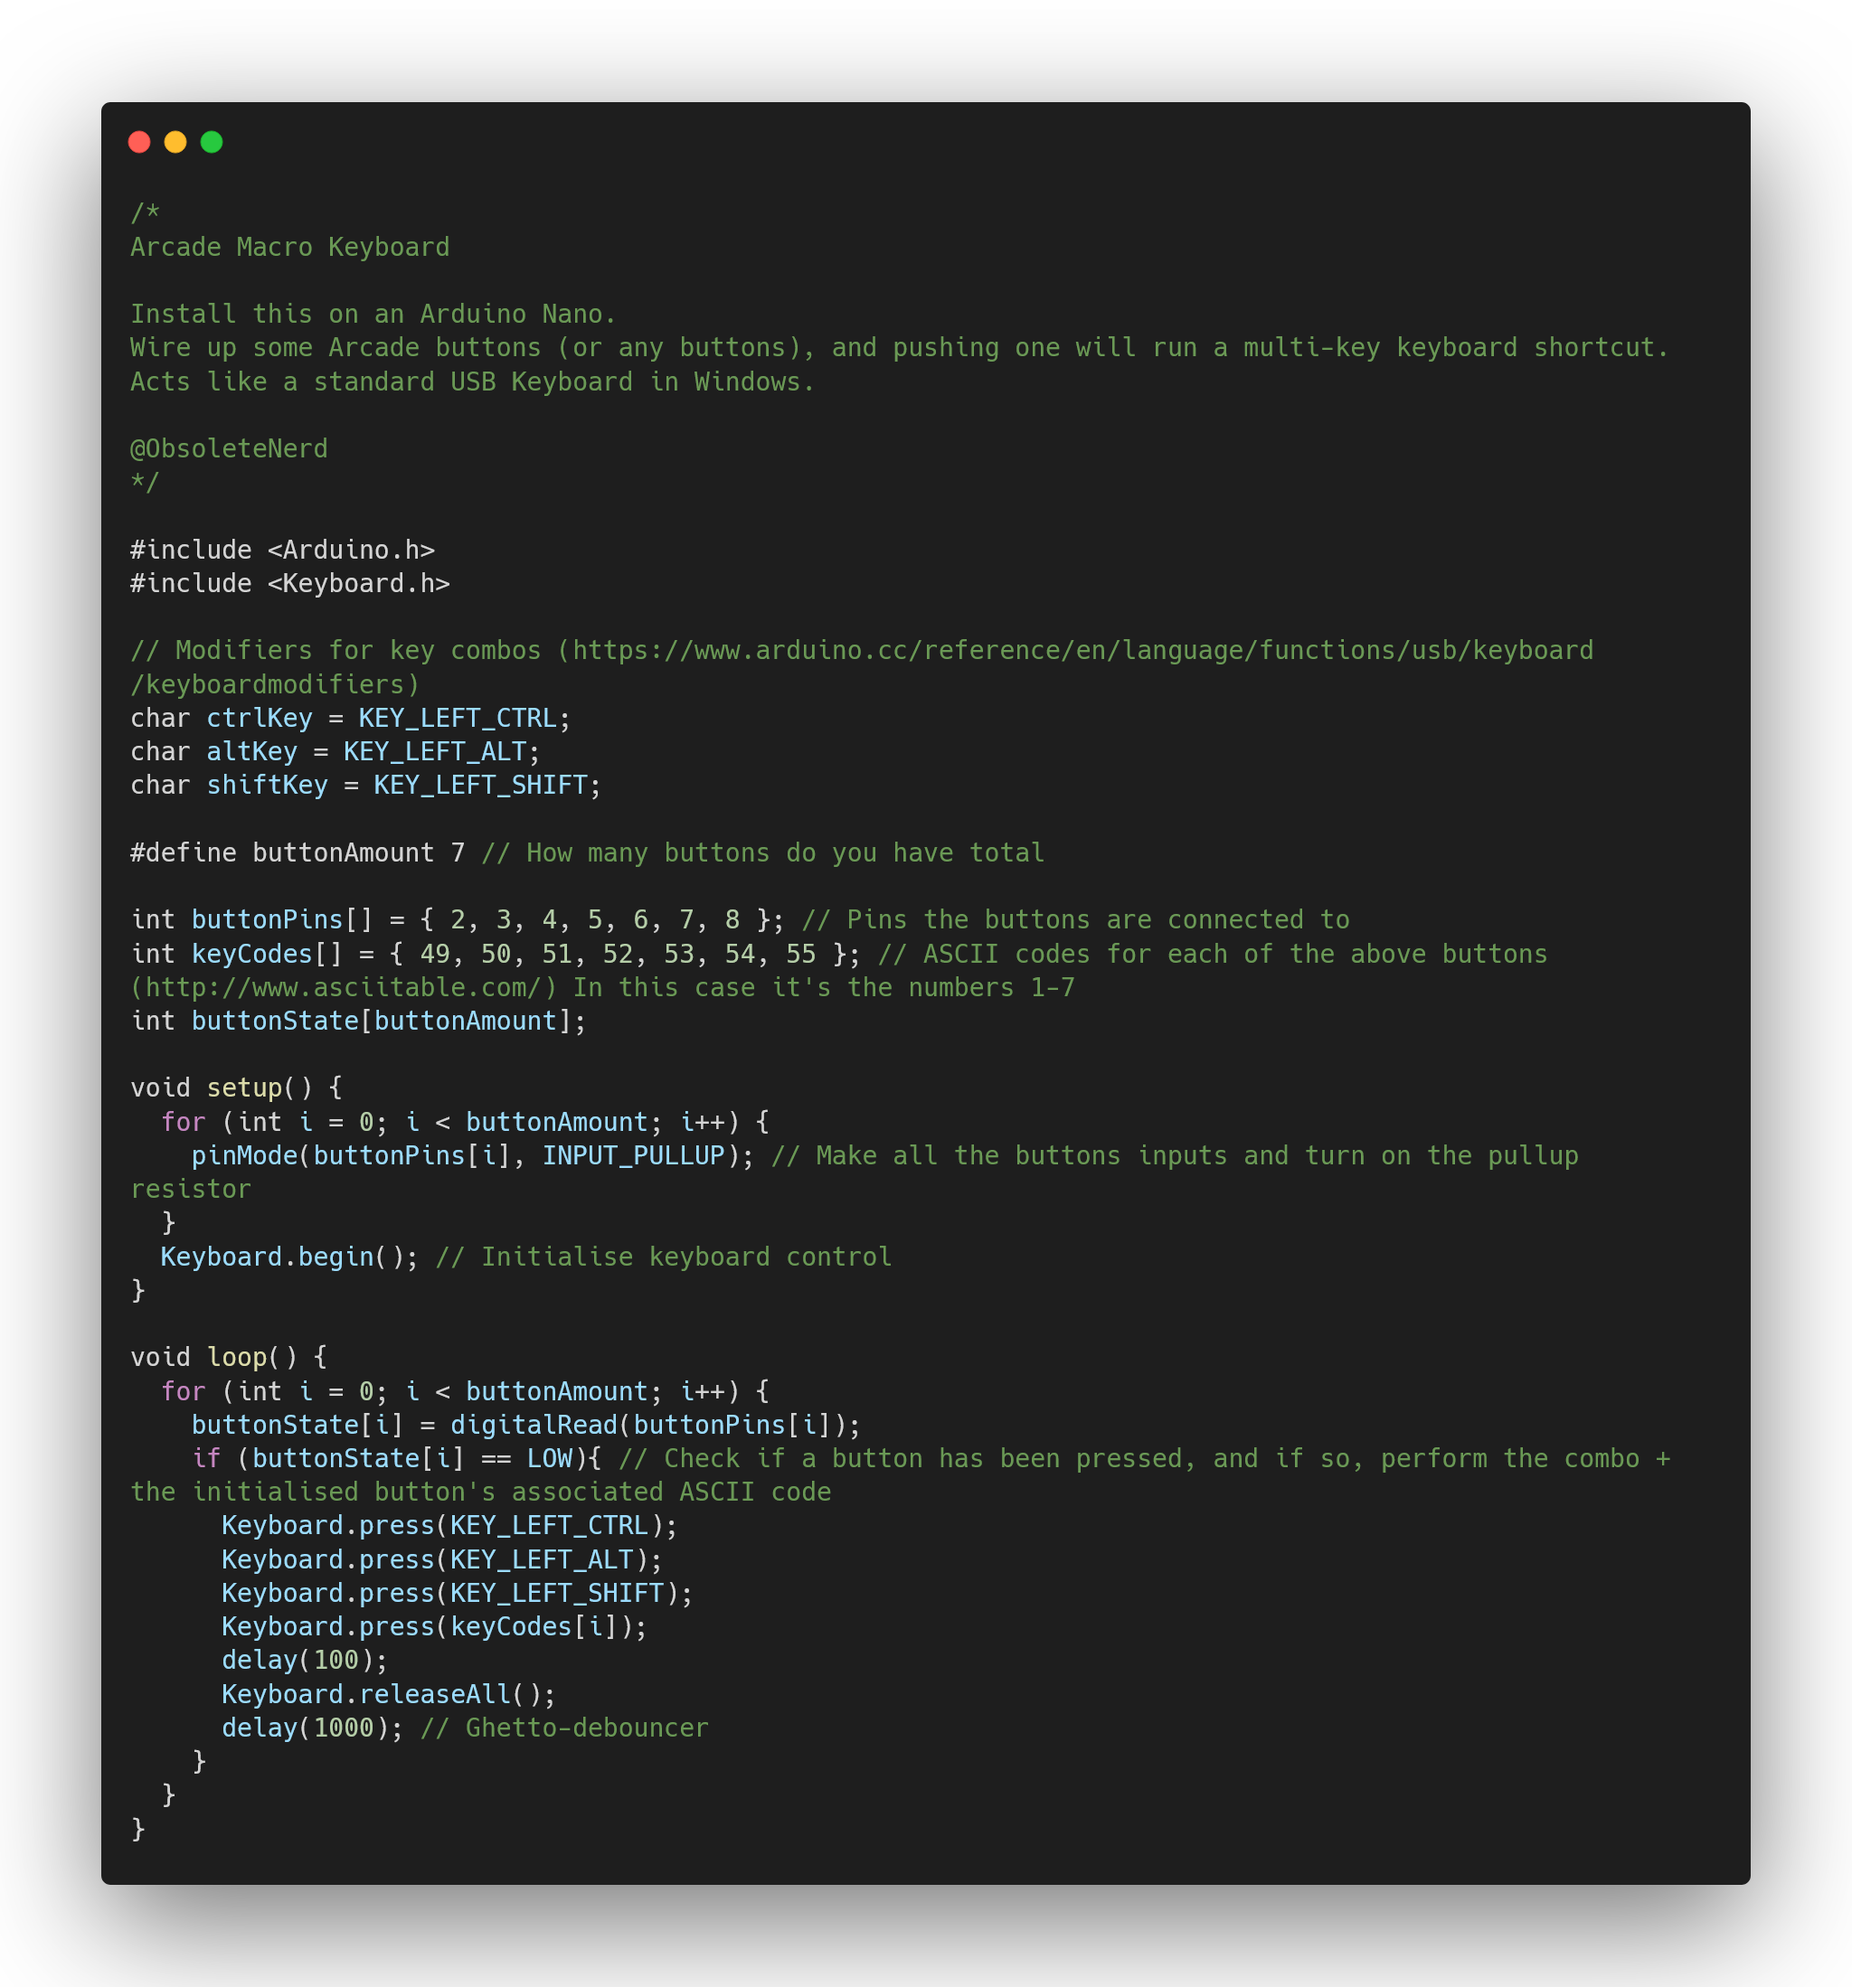
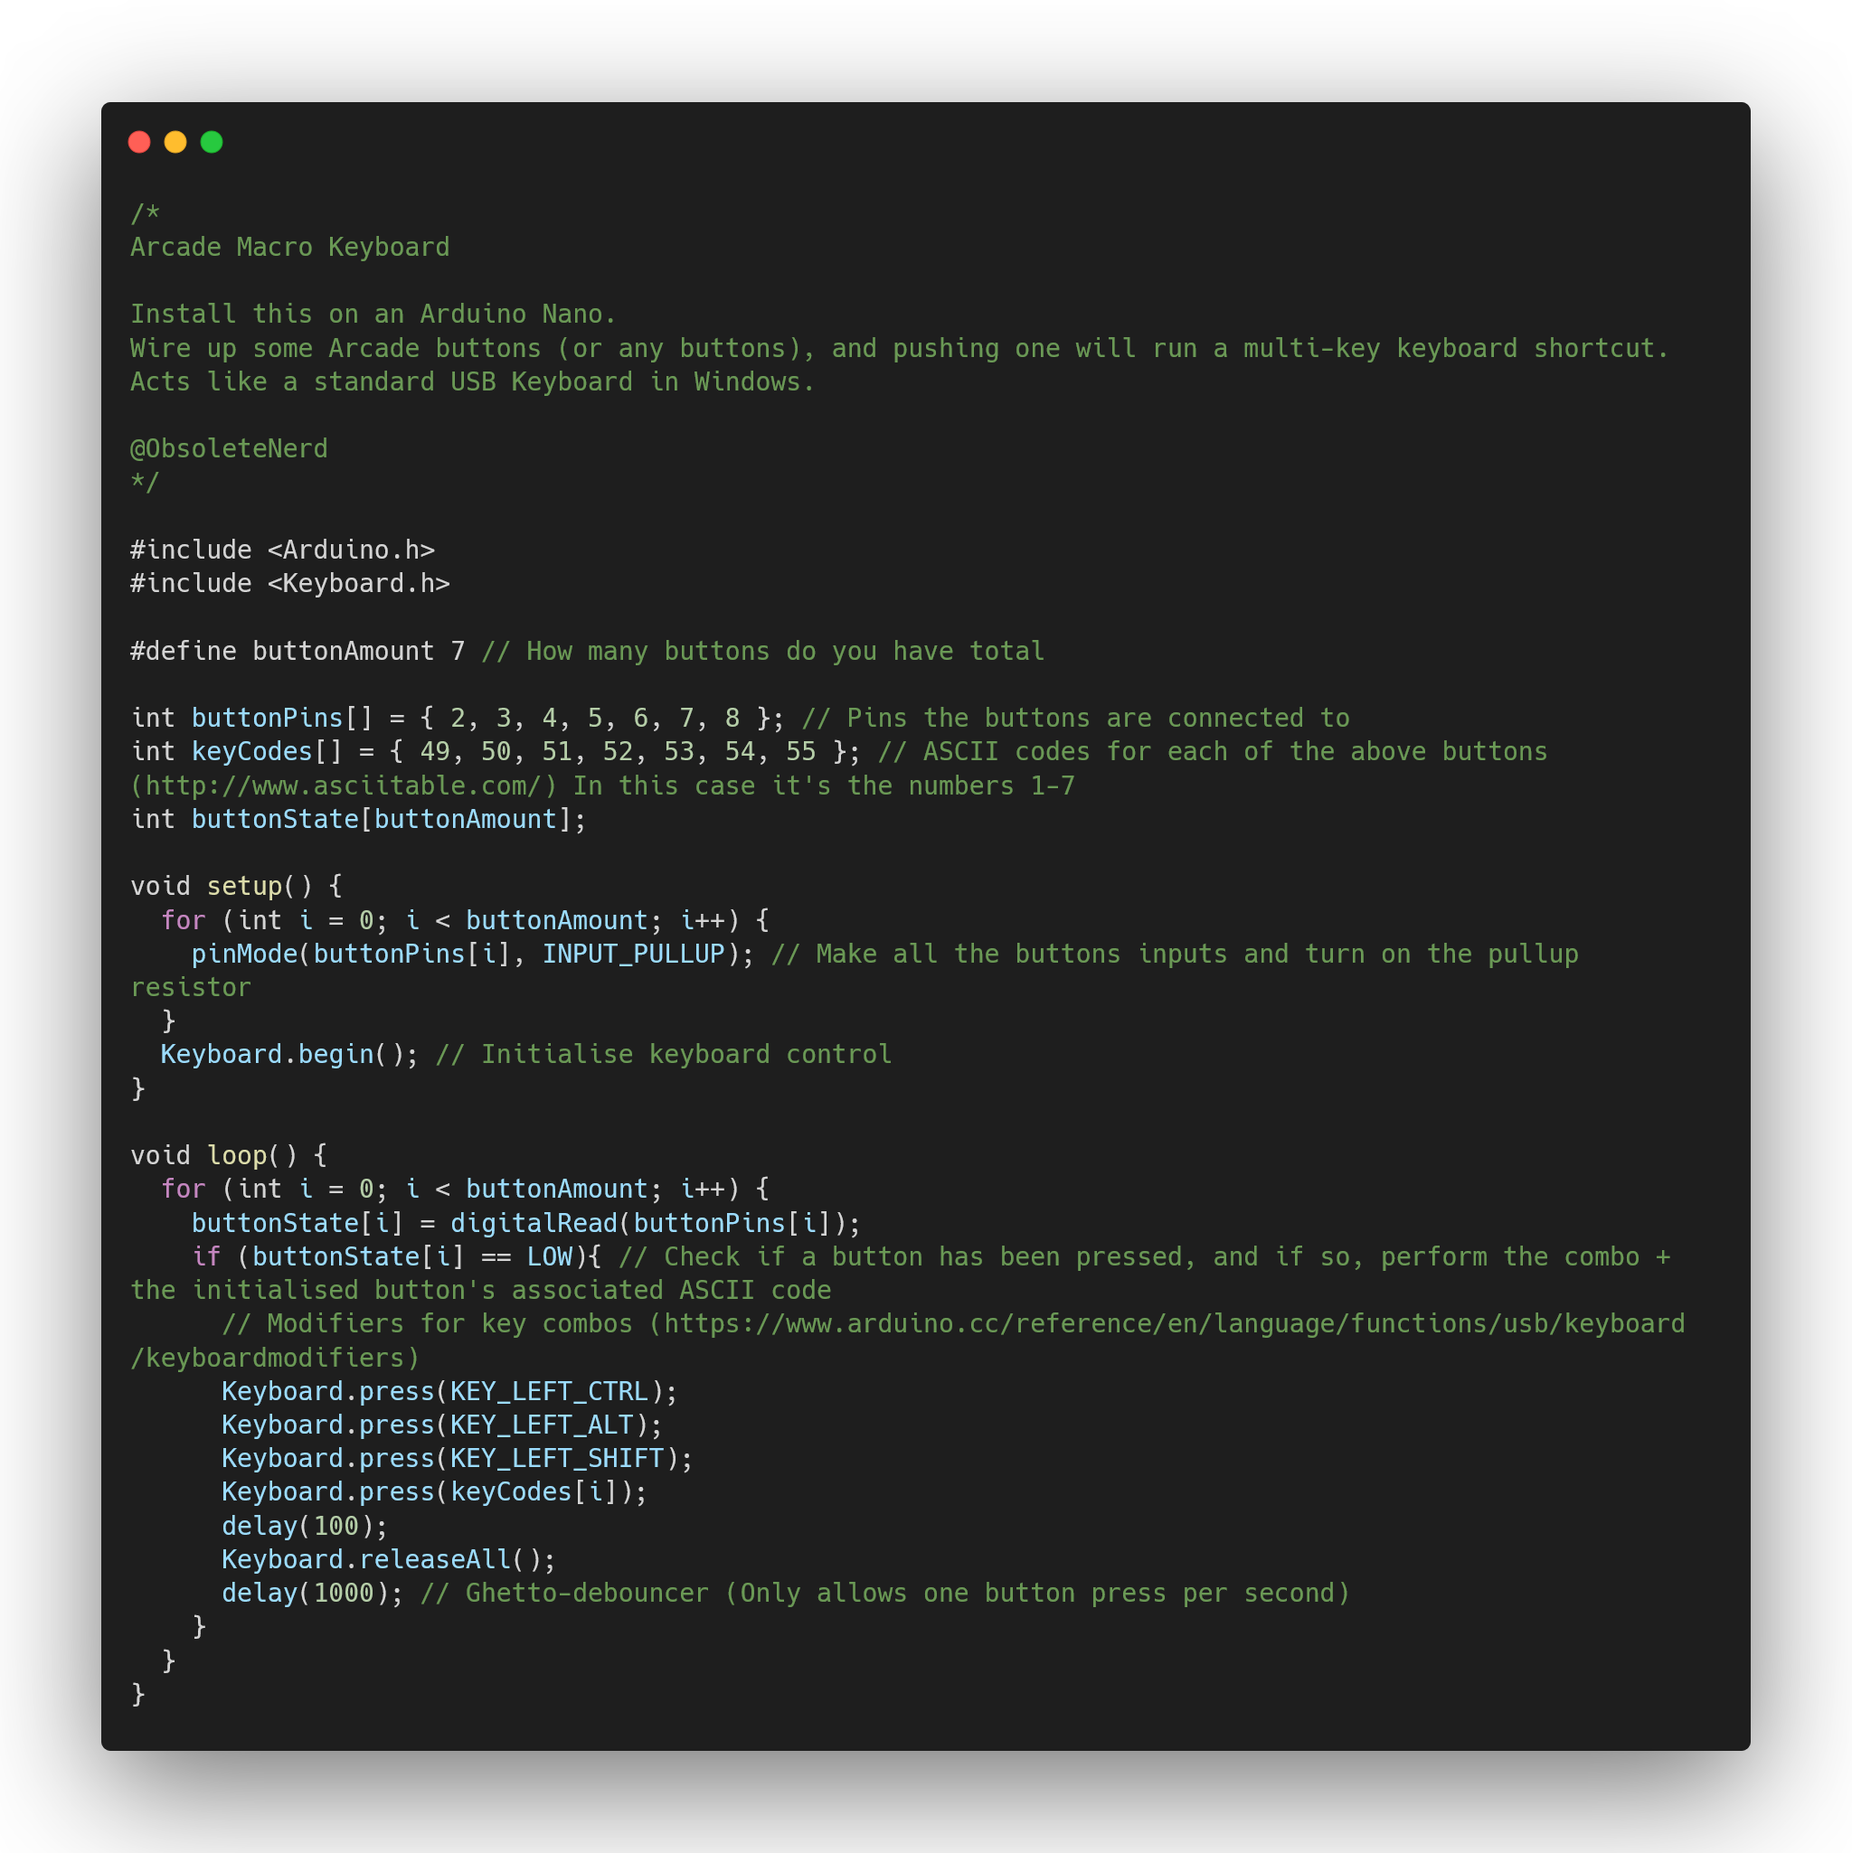
Updated code screenshot

diff --git a/src/main.cpp b/src/main.cpp
@@ -11,11 +11,6 @@ Acts like a standard USB Keyboard in Windows.
 #include <Arduino.h>
 #include <Keyboard.h>
 
-// Modifiers for key combos (https://www.arduino.cc/reference/en/language/functions/usb/keyboard/keyboardmodifiers)
-char ctrlKey = KEY_LEFT_CTRL;
-char altKey = KEY_LEFT_ALT;
-char shiftKey = KEY_LEFT_SHIFT;
-
 #define buttonAmount 7 // How many buttons do you have total
 
 int buttonPins[] = { 2, 3, 4, 5, 6, 7, 8 }; // Pins the buttons are connected to
@@ -33,13 +28,14 @@ void loop() {
   for (int i = 0; i < buttonAmount; i++) {
     buttonState[i] = digitalRead(buttonPins[i]);
     if (buttonState[i] == LOW){ // Check if a button has been pressed, and if so, perform the combo + the initialised button's associated ASCII code
+      // Modifiers for key combos (https://www.arduino.cc/reference/en/language/functions/usb/keyboard/keyboardmodifiers)
       Keyboard.press(KEY_LEFT_CTRL);
       Keyboard.press(KEY_LEFT_ALT);
       Keyboard.press(KEY_LEFT_SHIFT);
       Keyboard.press(keyCodes[i]);
       delay(100);
       Keyboard.releaseAll();
-      delay(1000); // Ghetto-debouncer
+      delay(1000); // Ghetto-debouncer (Only allows one button press per second)
     }
   }
 }
